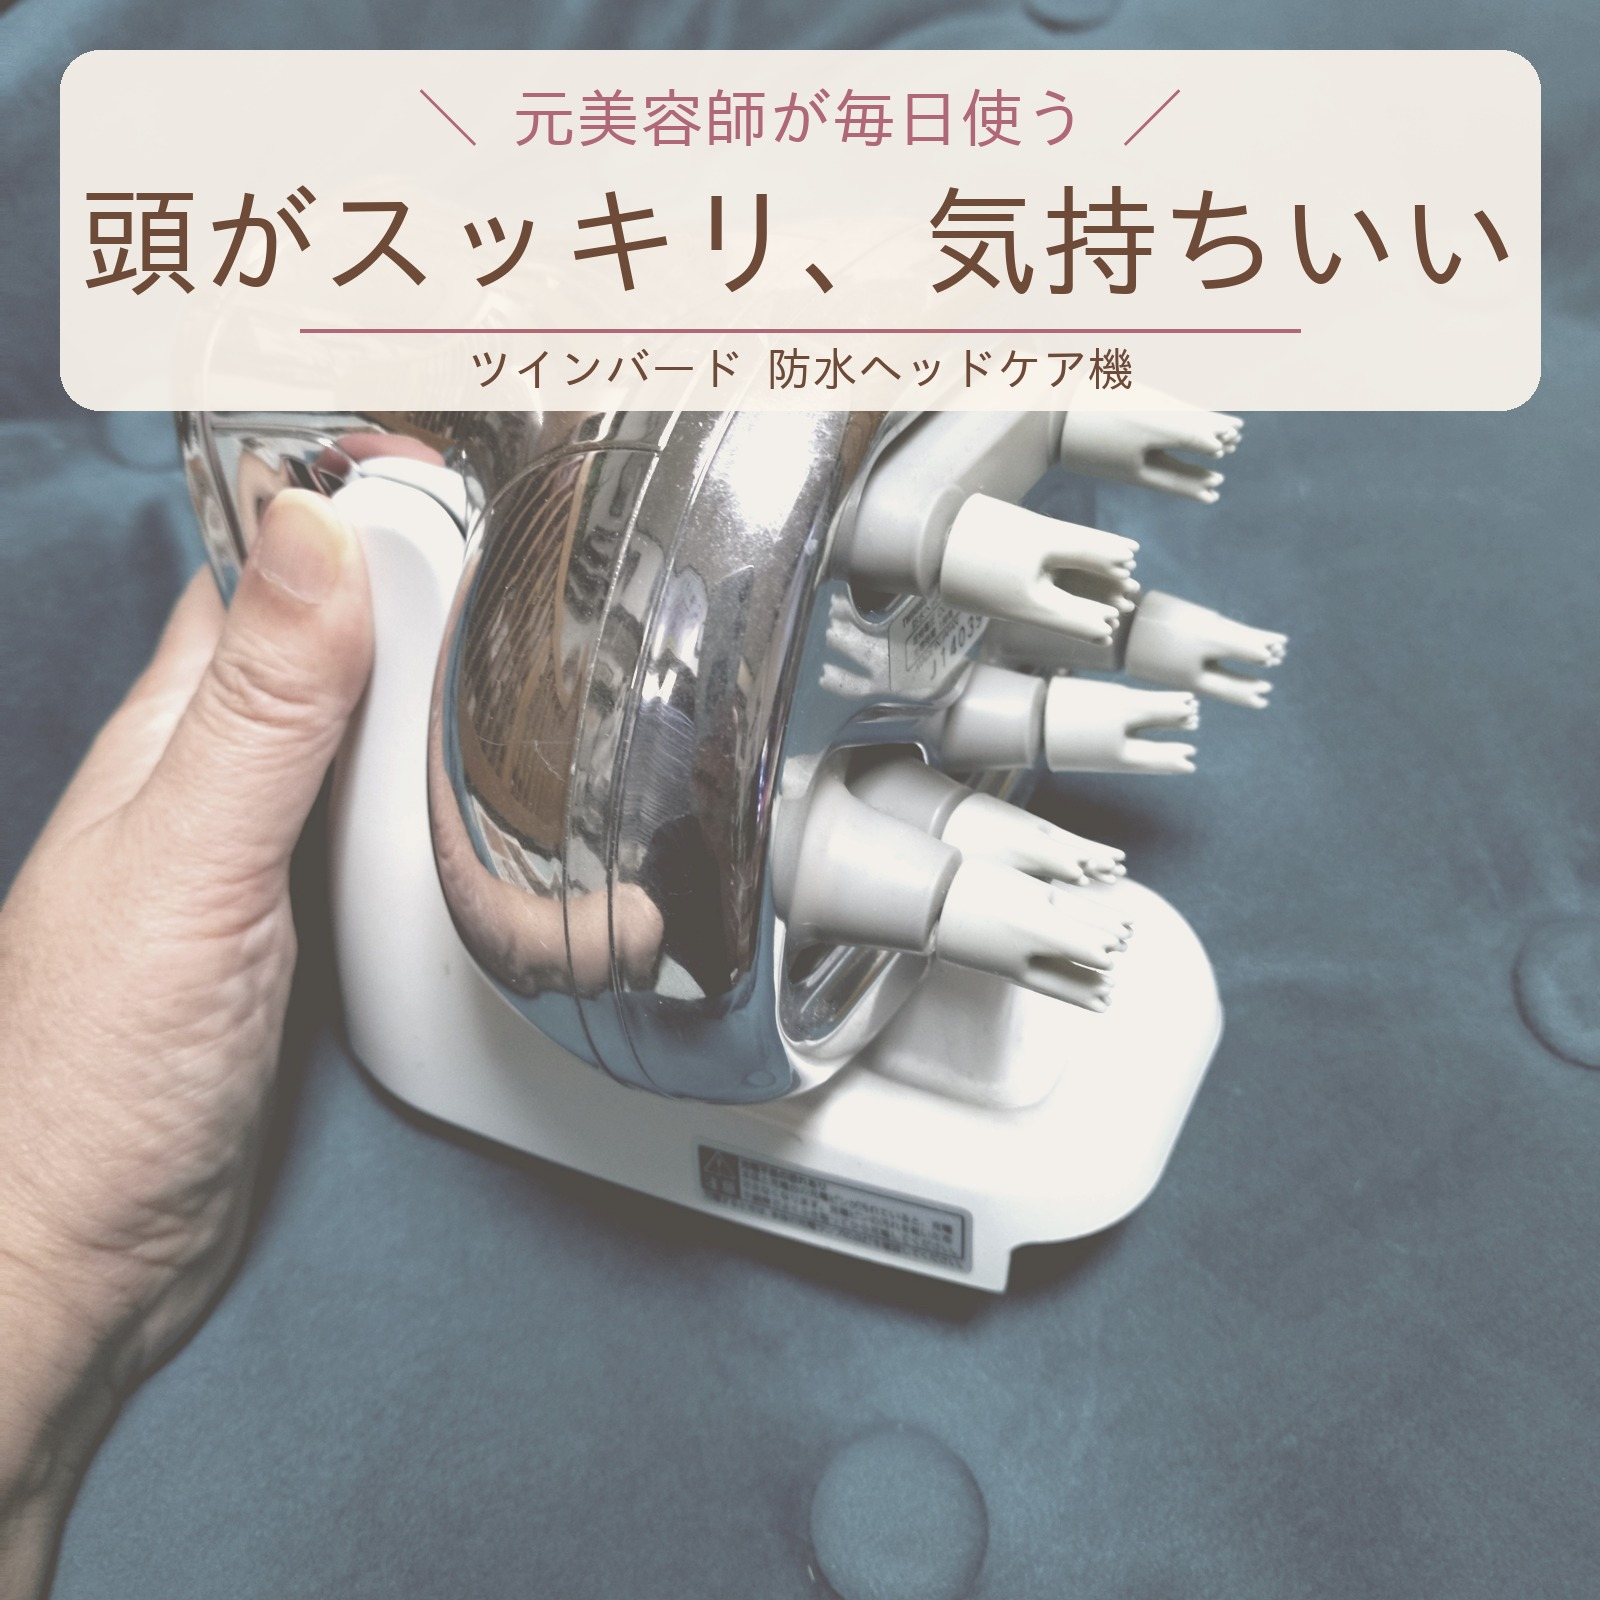
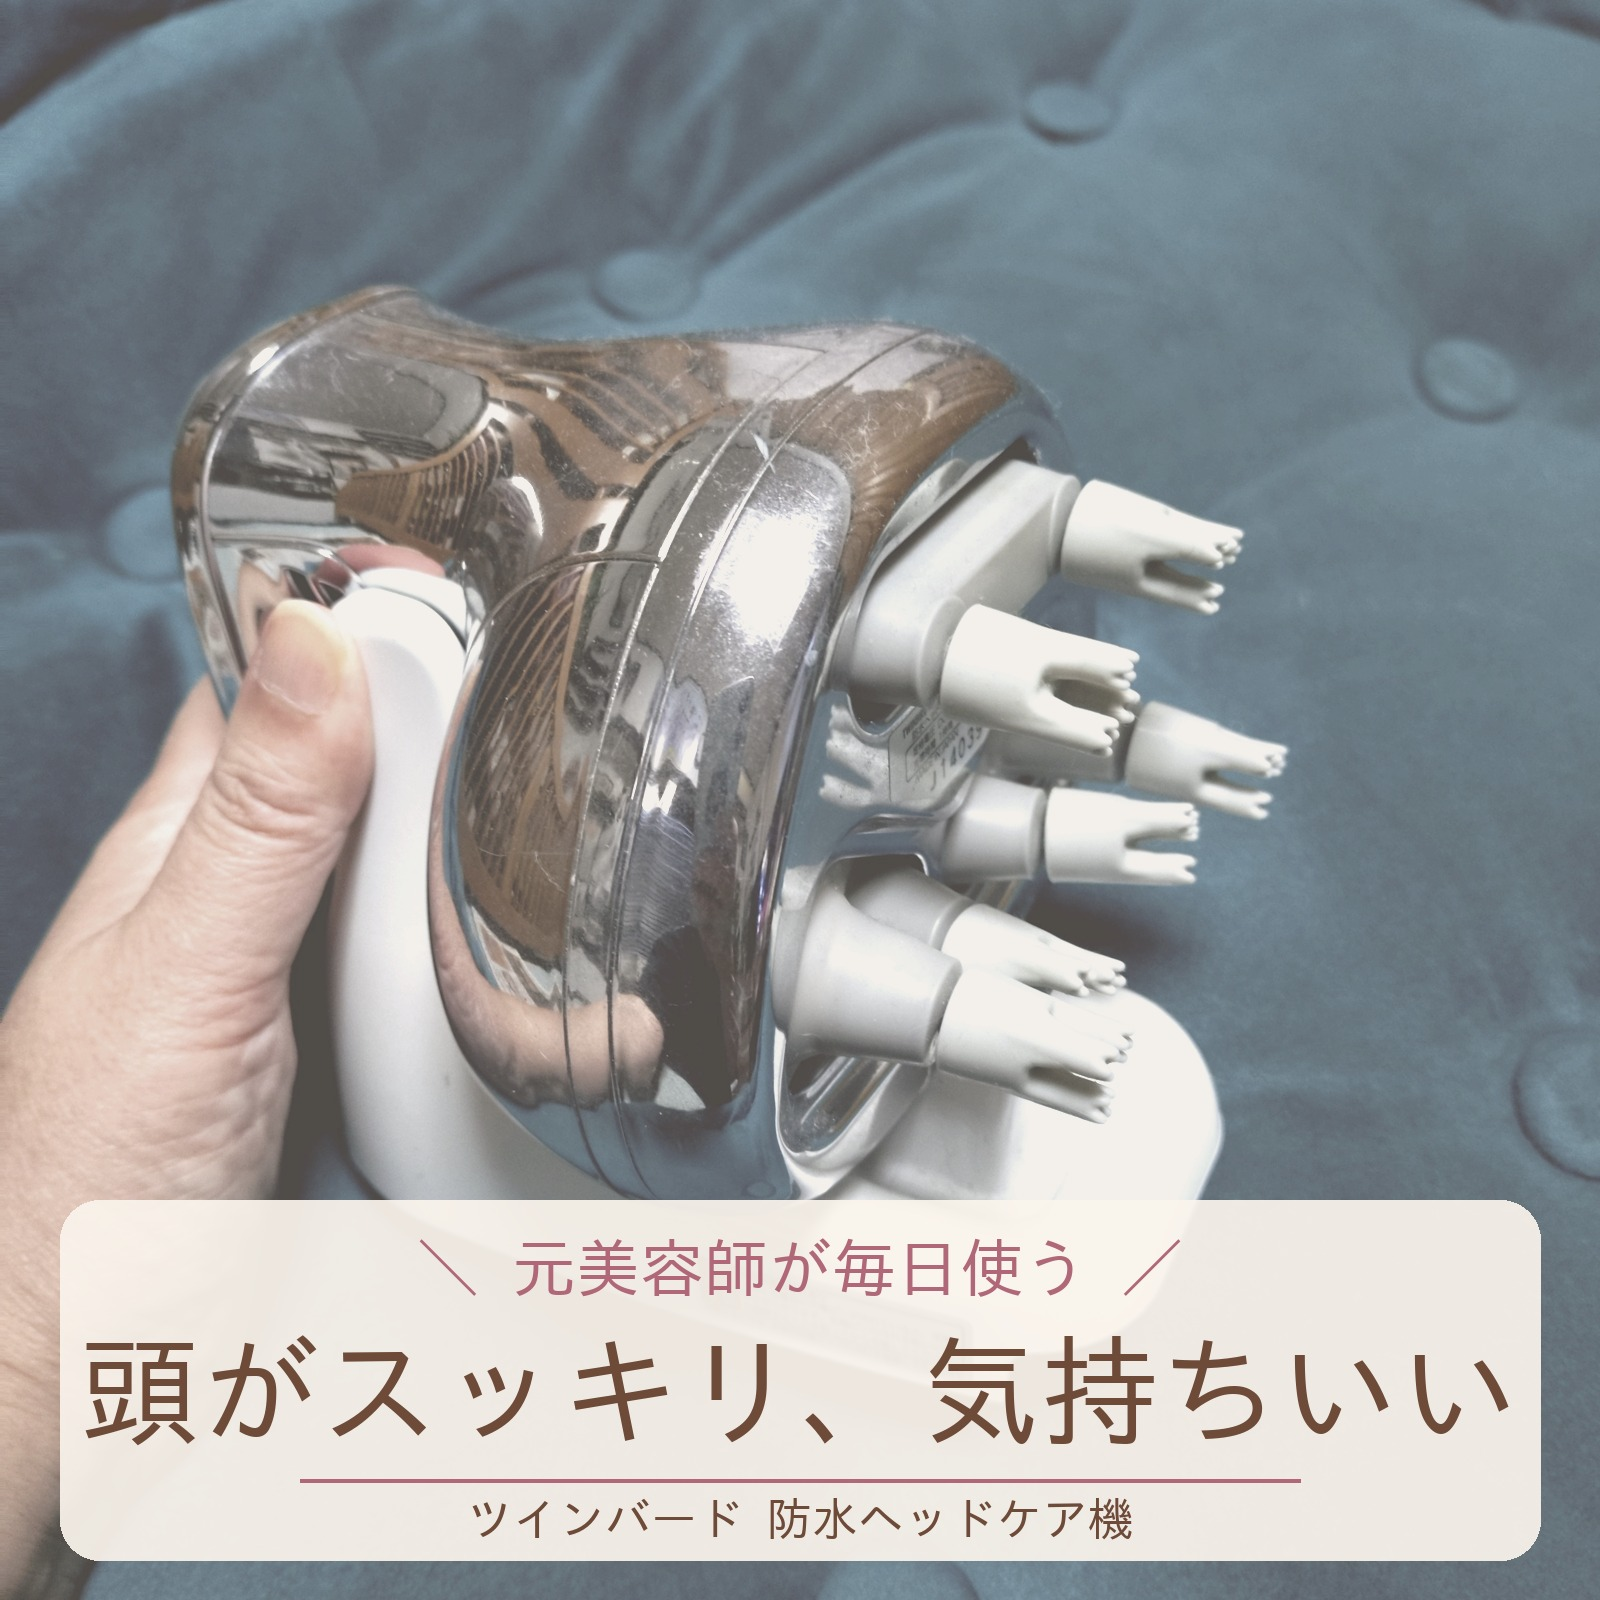
notes: ヘッドケアの写真 2 枚目の文字を下に移した
Claude-Session: https://claude.ai/code/session_01VJoHUhWWca3qLzkrqkKFAE

diff --git a/notes/写真/make_ヘッドケア.py b/notes/写真/make_ヘッドケア.py
@@ -18,14 +18,14 @@ def square(path, focus_y=0.5, focus_x=0.5):
 def text_c(d,cx,y,t,f,fill):
     w=d.textlength(t,font=f); d.text((cx-w/2,y),t,font=f,fill=fill)
 
-def band(im,lines):
+def band(im,lines,top=50):
     ov=Image.new('RGBA',im.size,(0,0,0,0)); d=ImageDraw.Draw(ov)
-    d.rounded_rectangle((60,50,1540,410),radius=40,fill=CREAM+(235,))
+    d.rounded_rectangle((60,top,1540,top+360),radius=40,fill=CREAM+(235,))
     im=Image.alpha_composite(im.convert('RGBA'),ov); d=ImageDraw.Draw(im)
-    text_c(d,800,85,lines[0],font(64),ROSE)
-    text_c(d,800,180,lines[1],font(120),BROWN)
-    d.line((300,330,1300,330),fill=ROSE,width=4)
-    text_c(d,800,345,lines[2],font(46),BROWN)
+    text_c(d,800,top+35,lines[0],font(64),ROSE)
+    text_c(d,800,top+130,lines[1],font(120),BROWN)
+    d.line((300,top+280,1300,top+280),fill=ROSE,width=4)
+    text_c(d,800,top+295,lines[2],font(46),BROWN)
     return im
 
 def badges(im,items,y=1240):
@@ -41,6 +41,6 @@ a=band(a,['＼ 元美容師の愛用品 ／','毎日のご褒美ヘッドケア'
 a=badges(a,[('お風呂でも','使える'),('力加減を','自分で'),('耳まわり・','首すじも')])
 a.convert('RGB').save('/home/user/claude/notes/写真/ヘッドケア_1.jpg',quality=92)
 
-b=square('/root/.claude/uploads/6329eea8-3d42-5fdc-a6f7-6294973fb194/29ff2612-image.jpg',0.62,0.3)
-b=band(b,['＼ 元美容師が毎日使う ／','頭がスッキリ、気持ちいい','ツインバード 防水ヘッドケア機'])
+b=square('/root/.claude/uploads/6329eea8-3d42-5fdc-a6f7-6294973fb194/29ff2612-image.jpg',0.25,0.3)
+b=band(b,['＼ 元美容師が毎日使う ／','頭がスッキリ、気持ちいい','ツインバード 防水ヘッドケア機'],top=1200)
 b.convert('RGB').save('/home/user/claude/notes/写真/ヘッドケア_2.jpg',quality=92)
